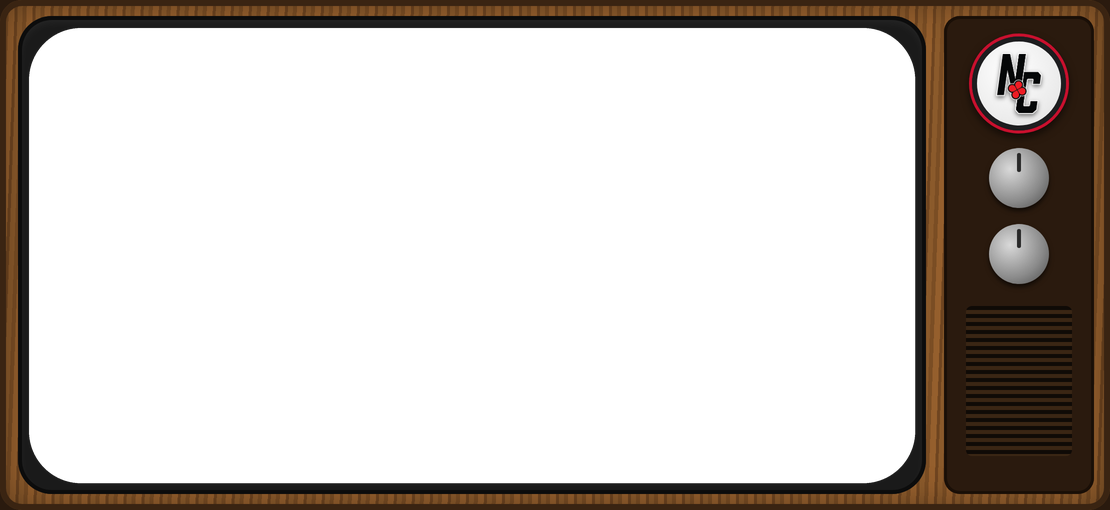
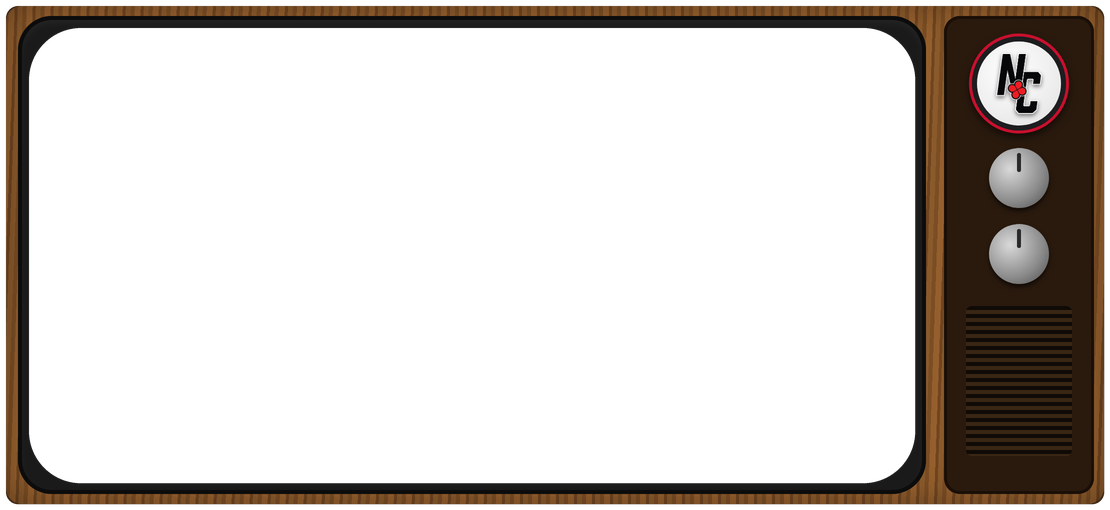
2027 spring rotator: outer dark band removed, wood cabinet keeps its curved corners on a transparent background; options kept in docs/demos

Changed region(s): [[0.0, 0.0, 1.0, 1.0]]

diff --git a/docs/demos/rotator-no-wood-demo.html b/docs/demos/rotator-no-wood-demo.html
@@ -1,0 +1,32 @@
+<!DOCTYPE html>
+<html lang="en">
+
+<head>
+<meta charset="UTF-8" />
+<meta name="viewport" content="width=device-width, initial-scale=1.0" />
+<title>Rotator Background Options</title>
+<style>
+* { box-sizing: border-box; }
+body { margin: 0; background: #181B1F; color: #181B1F; font: 15px/1.5 system-ui, sans-serif; }
+.wrap { max-width: 1140px; margin: 0 auto; padding: 16px; display: grid; gap: 16px; }
+h1 { color: #fff; font-size: 22px; margin: 0; }
+section { background: #fff; padding: 15px; }
+h2 { font-size: 16px; margin: 0 0 4px; }
+p { margin: 0 0 10px; color: #5d5f64; }
+img { display: block; width: 100%; height: auto; }
+.phone { max-width: 390px; margin-top: 12px; }
+small { color: #5d5f64; }
+</style>
+</head>
+
+<body>
+<div class="wrap">
+  <h1>Homepage rotator background options</h1>
+  <section><h2>Today</h2><p>The wood cabinet fills the whole slide.</p><img src="../../images/rotators/2027-spring-retro-tv-rotator.png" alt="Current slide with wood cabinet" /></section>
+  <section><h2>C: only the dark outer band gone</h2><p>The wood cabinet stays and keeps its rounded corners. The thin dark brown band around it is now transparent.</p><img src="rotator-no-wood-c.png" alt="Wood TV with transparent corners and edge" /><div class="phone"><small>Phone width</small><img src="rotator-no-wood-c.png" alt="" /></div></section>
+  <section><h2>A: wood gone, knob panel stays</h2><p>The screen and the dark panel sit on the page as two pieces.</p><img src="rotator-no-wood-a.png" alt="Screen and dark knob panel, no wood" /><div class="phone"><small>Phone width</small><img src="rotator-no-wood-a.png" alt="" /></div></section>
+  <section><h2>B: all brown gone</h2><p>Only the screen, the NC badge and the two knobs remain. The speaker grille goes with the panel.</p><img src="rotator-no-wood-b.png" alt="Screen, badge and knobs, no brown" /><div class="phone"><small>Phone width</small><img src="rotator-no-wood-b.png" alt="" /></div></section>
+</div>
+</body>
+
+</html>
